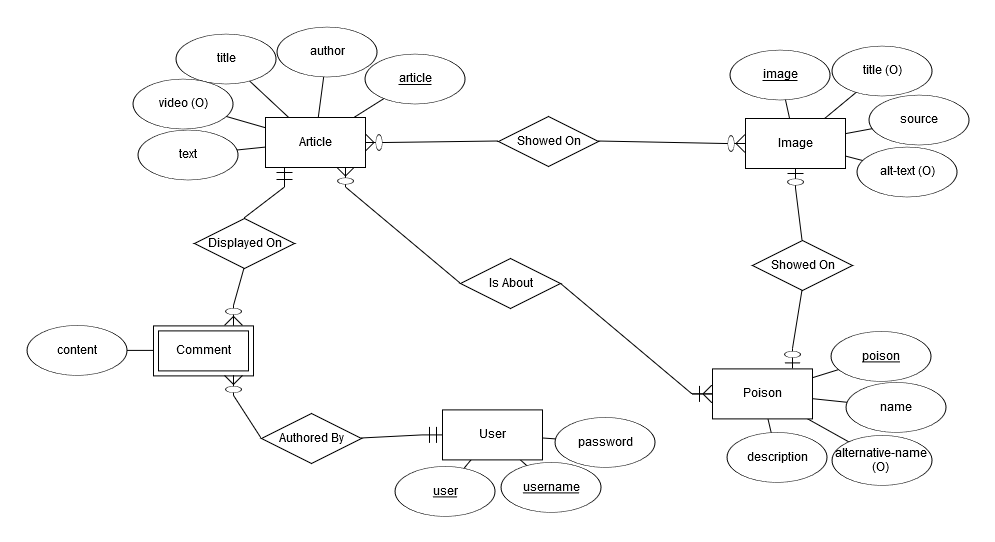
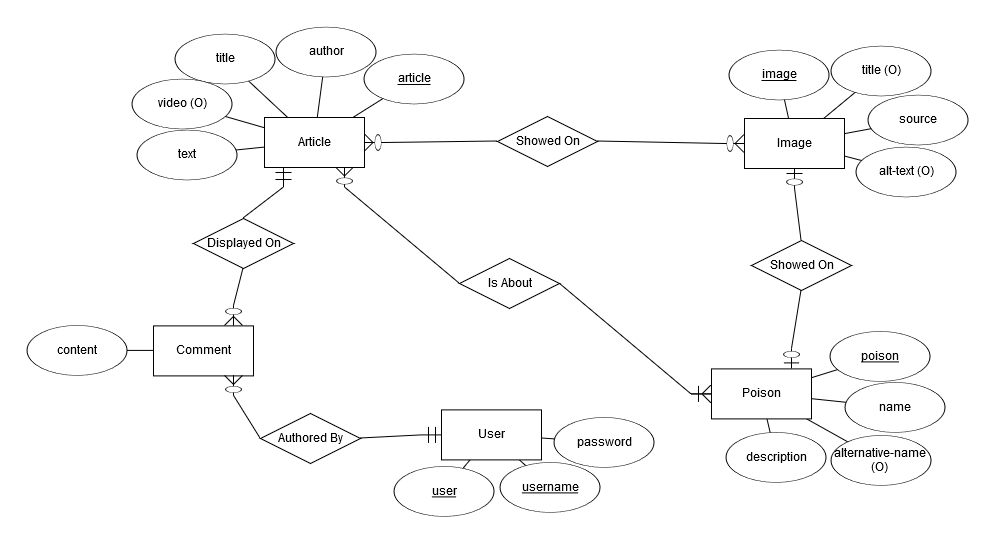
Replace the comment id field

diff --git a/CMP306CWork/tutorials.php b/CMP306CWork/tutorials.php
@@ -465,22 +465,22 @@ include_once 'config.php';
                                     </thead>
                                     <tbody>
                                         <tr>
+                                            <td>ID Number</td>
+                                            <td>Integer</td>
+                                            <td></td>
+                                            <td>This is auto incremented and the primary key</td>
+                                        </tr>
+                                        <tr>
                                             <td>Article ID Number</td>
                                             <td>Integer</td>
                                             <td></td>
-                                            <td>
-                                                This is a foreign key for the Article table and part of the
-                                primary key
-                                            </td>
+                                            <td>This is a foreign key for the Article table</td>
                                         </tr>
                                         <tr>
                                             <td>User ID Number</td>
                                             <td>Integer</td>
                                             <td></td>
-                                            <td>
-                                                This is a foreign key for the User table and part of the
-                                primary key
-                                            </td>
+                                            <td>This is a foreign key for the User table</td>
                                         </tr>
                                         <tr>
                                             <td>Content</td>
